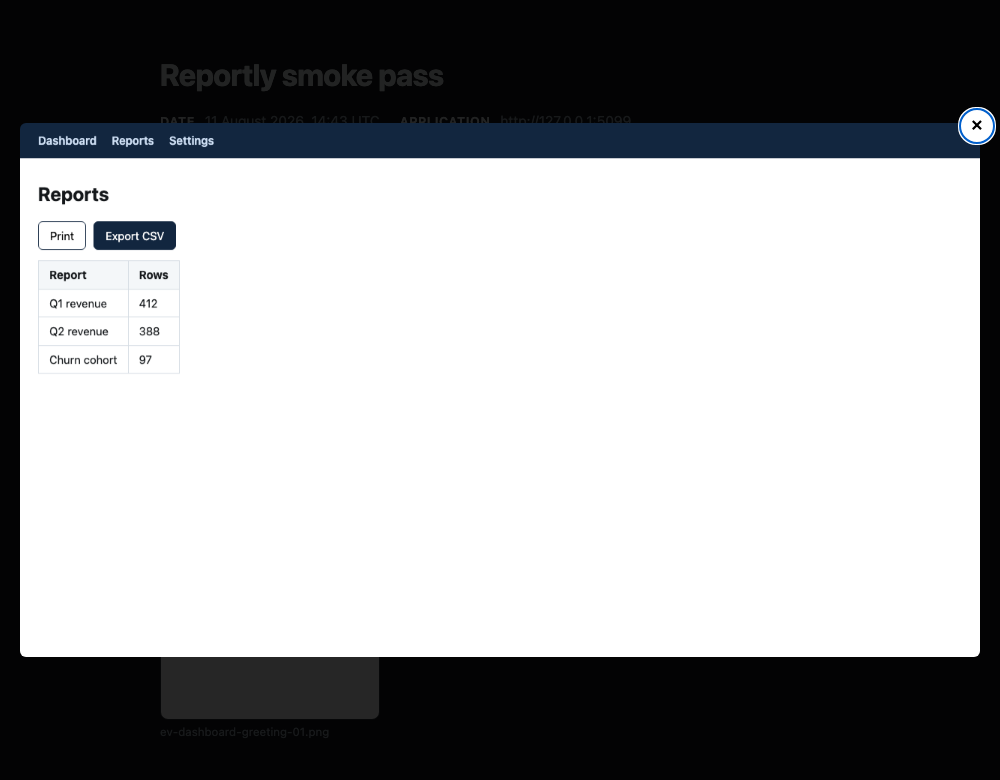
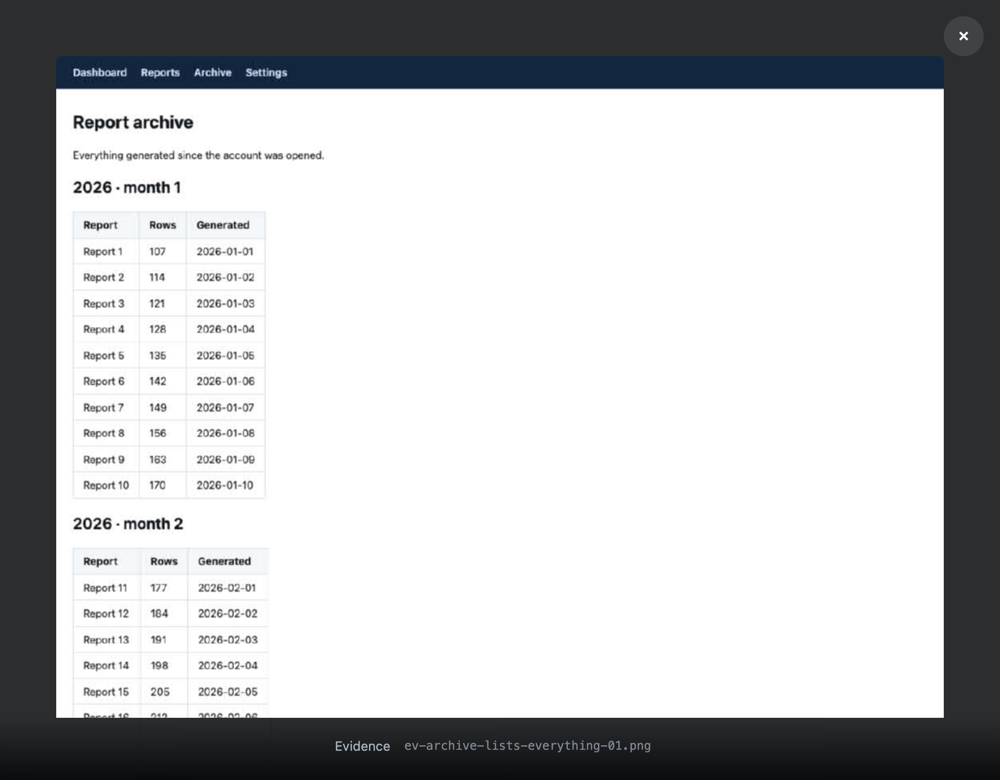
evidence: retake the three report screenshots
The images in the README and on the site were taken from a dark report
and an older session, so neither matched what `sluglist report` produces
now. Retaken from `evidence/report/sample/report-single.html` at the
sizes each one is published at: 900x2100 for the README (five checked
items, enough to show they are all one block shape), 900x1180 for the
home page panel, and 1000x780 for the viewer — the archive capture,
1280x5997, fit to width and scrolled to the top, which is the only shot
that shows a full-page screenshot staying readable.

Captured at 2x and downscaled, so the text is sharp at the published
width. The README's alt text described a frame the image no longer
contains and now describes this one.

diff --git a/README.md b/README.md
@@ -1076,7 +1076,7 @@ With more than one session the reports are ordered by **when each was written**,
 delivery time — a report captured on the 18th and delivered on the 24th (the outbox re-sends on the
 next load) still reads in the right place.
 
-<img src="evidence/report/shot-desktop.png" alt="A sluglist report: pass/fail/not-tested summary, checklist items with observed-fact notes and evidence thumbnails, then the filed issues with their fix status — single-file HTML proof" width="640">
+<img src="evidence/report/shot-desktop.png" alt="A sluglist report: the pass/fail/not-tested summary, then each checked item as its own block — a number, the check as a heading, a verdict badge, the observed fact quoted against a green bar, and the evidence thumbnail that proves it — all in one offline HTML file" width="640">
 
 What is in it, in order: the title, a sentence saying what the file holds and which application it
 came from, and a line of provenance (date, reporter, intent, session id); a summary (N pass / N fail /
